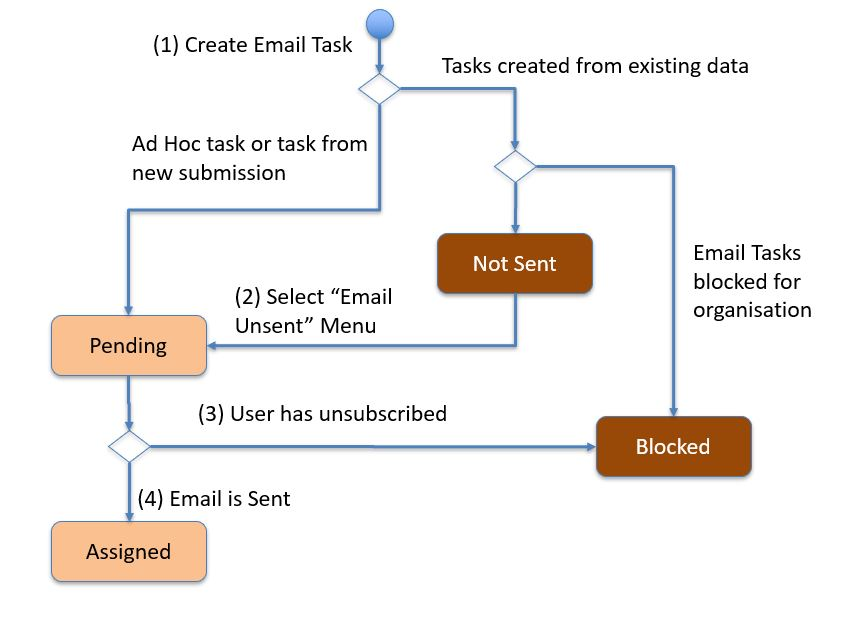
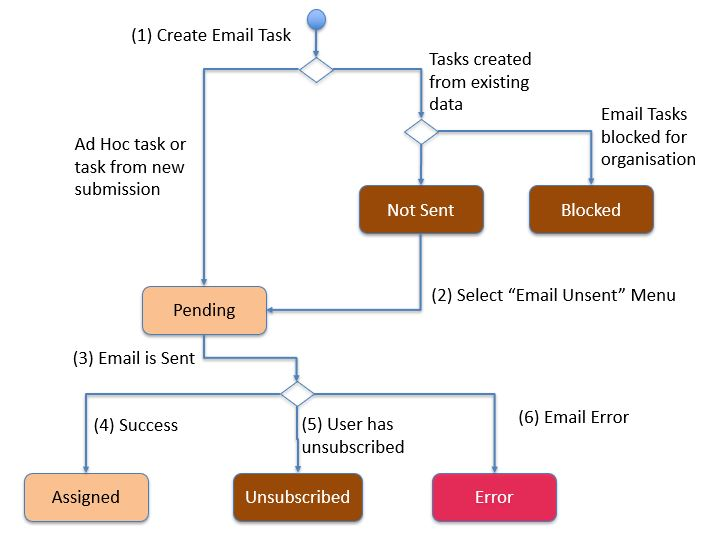
partial tasks api

Changed region(s): [[0.0309, 0.0, 0.9888, 0.967]]

diff --git a/tasks-api.rst b/tasks-api.rst
@@ -1,0 +1,268 @@
+.. _tasks-api:
+
+Tasks API
+=========
+
+.. contents::
+ :local:
+
+
+Task Groups
+-----------
+
+.. http:get:: /api/v1/tasks/groups/(project id)
+
+  :synposis: get a list of task groups in a project.  You can use the :ref:`projects-api` request with a query parameter of `links=true` to get a list of available task groups URLs
+  
+  **Example response**:
+  
+  https://sg.smap.com.au/api/v1/tasks/groups/1554
+  
+  .. sourcecode:: http
+  
+	HTTP/1.1 200 OK
+	Vary: Accept
+	Content-Type: application/json
+	
+	[
+	  {
+		"tg_id": 199,
+		"name": "xxxx",
+		"address_params": "[]",
+		"p_id": 1,
+		"rule": {
+		  "task_group_name": "xxxx",
+		  "dl_dist": 0,
+		  "show_dist": 100,
+		  "source_survey_id": 17821,
+		  "target_survey_id": 20282,
+		  "project_name": "A project",
+		  "source_survey_name": "3. School Personnel",
+		  "survey_name": "accuracy",
+		  "user_id": -2,
+		  "role_id": 0,
+		  "fixed_role_id": 0,
+		  "assign_data": "${q1.1}",
+		  "task_group_id": 0,
+		  "blank": true,
+		  "prepopulate": true,
+		  "update_results": false,
+		  "add_future": true,
+		  "add_current": false,
+		  "address_columns": [],
+		  "filter": {
+			"qId": 0,
+			"oId": 0,
+			"qInteger": 0,
+			"qStartDate": 0,
+			"qEndDate": 0,
+			"advanced": "${q1.2} > 1000"
+		  },
+		  "taskStart": -1,
+		  "taskAfter": 3,
+		  "taskUnits": "days",
+		  "taskDuration": 2,
+		  "durationUnits": "hours",
+		  "emailDetails": {
+			"subject": "",
+			"content": ""
+		  },
+		  "complete_all": true,
+		  "assign_auto": false
+		},
+		"source_s_id": 17821,
+		"target_s_id": 20282,
+		"totalTasks": 1,
+		"completeTasks": 1,
+		"emaildetails": {
+		  "subject": "",
+		  "content": ""
+		}
+	  }
+	 
+	]
+	
+  In the task group details shown above:
+  
+  *  A task is created if the answer to question q1.2 in the submitted data was greater than 1000
+  *  The task is assigned to the user identified in the answer to question q1.2
+  *  Tasks are triggered by survey 17821 and require the completion of survey 20282
+  
+  :reqheader Authorization: basic
+  :statuscode 200: no error
+
+Task List
+---------
+
+.. http:get:: /api/v1/tasks
+
+  :synposis: get a list of tasks.
+  
+  **Example response**:
+  
+  https://sg.smap.com.au/api/v1/tasks
+  
+  The format of the response is GeoJSON.
+  
+  .. sourcecode:: http
+  
+	HTTP/1.1 200 OK
+	Vary: Accept
+	Content-Type: application/json
+	
+	{
+	  "type": "FeatureCollection",
+	  "features": [
+		{
+		  "type": "Feature",
+		  "geometry": {
+			"type": "Point",
+			"coordinates": [
+			  0,
+			  0
+			]
+		  },
+		  "properties": {
+			"tg_id": 234,
+			"name": "cccc",
+			"form_id": 17831,
+			"survey_ident": "s1_17829",
+			"assignee_ident": "neil",
+			"generate_user": false,
+			"from": "2019-11-09 01:44:34",
+			"to": "2019-11-09 02:44:34",
+			"location_trigger": "",
+			"repeat": false,
+			"repeat_count": 1,
+			"guidance": "",
+			"lon": 0,
+			"lat": 0,
+			"complete_all": true,
+			"assign_auto": true,
+			"show_dist": 0,
+			"id": 2507,
+			"tg_name": "Locate",
+			"p_id": 0,
+			"a_id": 2215,
+			"survey_name": "2. Entèvyou paran oubyen gadyen (Parent Guardian) (1)",
+			"blocked": false,
+			"assignee": 3988,
+			"assignee_name": "Neil Penman",
+			"comment": "",
+			"status": "late"
+		  },
+		  "links": {
+			"detail": "https://sg.smap.com.au/api/v1/tasks/2507",
+			"webform": "https://sg.smap.com.au/webForm/s1_17829?assignment_id=2215"
+		  }
+		},
+		{
+		  "type": "Feature",
+		  "geometry": {
+			"type": "Point",
+			"coordinates": [
+			  153.01260069944,
+			  -27.446150149836
+			]
+		  },
+		  "properties": {
+			"tg_id": 235,
+			"name": "Light 2",
+			"form_id": 20361,
+			"survey_ident": "s1554_20361",
+			"assignee_ident": "neil",
+			"generate_user": false,
+			"from": "2019-11-09 04:21:16",
+			"to": "2019-11-09 05:21:16",
+			"location_trigger": "",
+			"repeat": false,
+			"repeat_count": 1,
+			"guidance": "",
+			"lon": 153.01260069943964,
+			"lat": -27.446150149835972,
+			"complete_all": true,
+			"assign_auto": true,
+			"show_dist": 0,
+			"id": 2508,
+			"tg_name": "Maintenance",
+			"p_id": 0,
+			"a_id": 2216,
+			"survey_name": "street light",
+			"blocked": false,
+			"assignee": 3988,
+			"assignee_name": "Neil Penman",
+			"comment": "",
+			"status": "late"
+		  },
+		  "links": {
+			"detail": "https://sg.smap.com.au/api/v1/tasks/2508",
+			"webform": "https://sg.smap.com.au/webForm/s1554_20361?assignment_id=2216"
+		  }
+		}
+	  ]
+	}
+	
+  :query user: The ident of the user who has been assigned the task.  Use `_unassigned` to return unassigned tasks.
+  :query tg_id: The task group id.
+  :query period: One of `all`, `week` or `month`.  The default is `week` which will return only the recent tasks created in the past week.  
+                 Hence this is an option you will probably want to change to `all` in order to get all of the tasks.
+  :query start: The `id` of the first task to get.
+  :query limit: The number of tasks to return.
+  :query sort: The property to sort on. This can be one of `id` (the default) or `scheduled` the scheduled start of the task.
+  :query dirn: The direction of sort.  One of `asc` or `desc`
+  :query tz: :ref:`timezone`
+  :query status: A comma separated list of status values.  These can include `new`, `accepted`, `late`, `unsent`, `unsubscribed`, 
+                 `submitted`, `rejected`, `cancelled`, `deleted`, `pending`, `error`, `blocked`. Refer to :ref:`task-lifecycle` for details
+                 on how a task gets a status value.
+  :reqheader Authorization: basic
+  :statuscode 200: no error
+  
+Details of a Single Task
+------------------------
+
+.. http:get:: /api/v1/tasks/(task id)
+
+  :synposis: Get the details for a single task.
+  
+  **Example response**:
+  
+  https://sg.smap.com.au/api/v1/tasks
+  
+  .. sourcecode:: http
+
+    HTTP/1.1 200 OK
+	Vary: Accept
+	Content-Type: application/json
+	
+	{
+	  "tg_id": 234,
+	  "name": "cccc",
+	  "form_id": 17831,
+	  "survey_ident": "s1_17829",
+	  "assignee_ident": "neil",
+	  "generate_user": false,
+	  "from": "2019-11-09 01:44:34",
+	  "to": "2019-11-09 02:44:34",
+	  "location_trigger": "",
+	  "repeat": false,
+	  "repeat_count": 1,
+	  "guidance": "",
+	  "lon": 0,
+	  "lat": 0,
+	  "complete_all": true,
+	  "assign_auto": true,
+	  "show_dist": 0,
+	  "id": 2507,
+	  "tg_name": "Locate",
+	  "p_id": 0,
+	  "a_id": 2215,
+	  "survey_name": "2. Entèvyou paran oubyen gadyen (Parent Guardian) (1)",
+	  "blocked": false,
+	  "assignee": 3988,
+	  "assignee_name": "Neil Penman",
+	  "comment": "",
+	  "status": "late"
+	}
+	
+    :reqheader Authorization: basic
+    :statuscode 200: no error

diff --git a/audit-api.rst b/audit-api.rst
@@ -146,6 +146,17 @@ Because this service returns data in GeoJSON format it can easily be analyzed in
 #.  Paste the URL that returns your audit data into the URI field
 #.  Select the basic authentication tab and enter your username and password
 #.  Press the **Add** button
+#.  Press **Close**.  Your layer should have been added.
+
+Once you have a vector layer in your GIS you can analyse by, for example, setting the size of the point proportional to the time
+taken to answer the question.  
+
+.. figure::  _images/api3.jpg
+   :align:   center
+   :alt:     Audit data in QGIS
+
+   Audit data in QGIS
+   
 
 Raw Audit Log File
 ------------------
@@ -185,5 +196,3 @@ in your time zone you can use the following formula::
   Then add the timezone effect which is the number of hours difference from UTC divided by 24
   
   
-
-#.  

diff --git a/admin-api.rst b/admin-api.rst
@@ -106,6 +106,8 @@ Resources
   curl -u xxxx -i -X POST -H "Content-Type: multipart/form-data" -F "data=@phone.jpg" https://sg.smap.com.au/surveyKPI/upload/media
   
  :query survey_id: The id of a survey if you want the media file to only be available to that survey.
+
+.. _projects-api:
  
 Projects
 --------
@@ -206,8 +208,10 @@ Submissions
   :reqheader Authorization: basic
   :statuscode 200: no error
   
-Timezones
----------
+.. _timezone:
+
+Timezone
+--------
 
 .. http:get:: /surveyKPI/utility/timezones
 

diff --git a/task-lifecycle.rst b/task-lifecycle.rst
@@ -30,6 +30,9 @@ These are tasks that are assigned to a user who has been setup on the system.
 #.  **Acknowledge Cancel**.  The next time the FieldTask user refreshes their task list then any cancelled tasks will become
     deleted and no longer show in their task list.
 
+.. note:
+
+  An unassigned task is referred to as "new" in the :ref:`tasks-api`
 
 Email Tasks
 -----------

diff --git a/server-apis.rst b/server-apis.rst
@@ -9,3 +9,4 @@ Server APIs
   data-api.rst
   admin-api.rst
   audit-api.rst
+  tasks-api.rst
